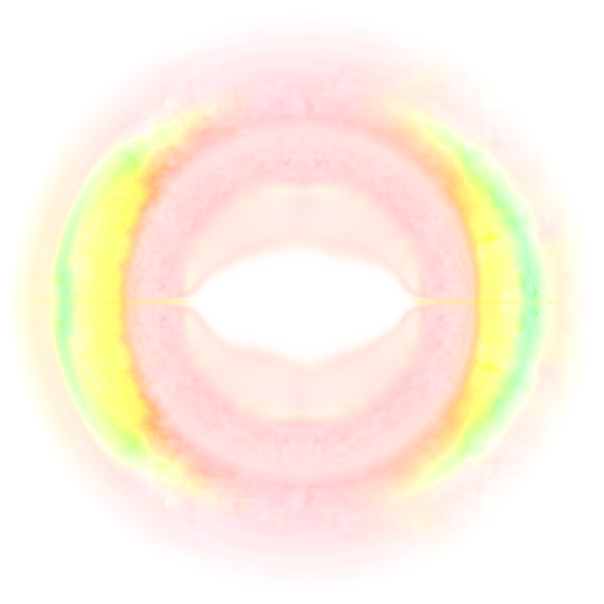
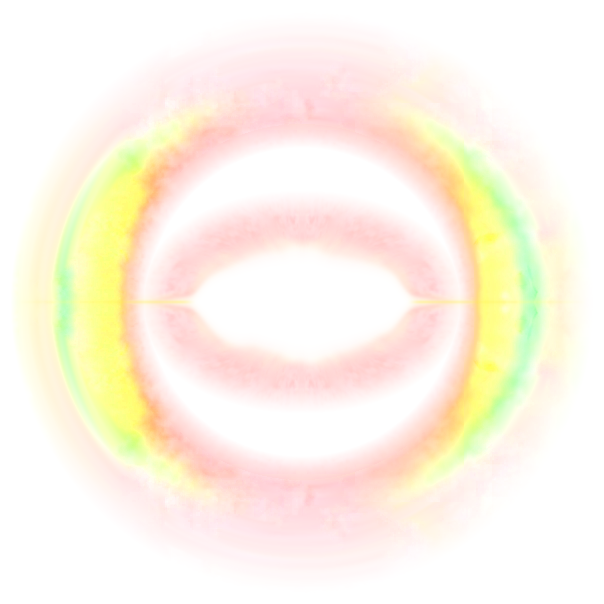
Efekt 10: kare 3 (ikinci katman merceğin etrafında aynı kalınlıkta) ve kare 4 taslağı (yuvarlak beyaz, paranteze kadar sarı, buharlar)
Claude-Session: https://claude.ai/code/session_01E9c1WiJsMc9gXSJZ9D4z6g

diff --git a/arayuz/araclar/efekt10/kare_04.py b/arayuz/araclar/efekt10/kare_04.py
@@ -1,0 +1,49 @@
+#!/usr/bin/env python3
+"""Efekt 10 — kare 4 (kullanici fotografi): ortada yuvarlak titanyum beyaz (~100x84 px); onun etrafi PARANTEZE KADAR beyazdan sariya
+donmus isik (mercek bicimli parlak cekirdek ~230x124, uclari yanlara bant olarak uzanir ~330); ikinci katman (seftali/somon) yok,
+yalniz soluk buharlari (dalgali, parcali) kalir. Parantezler ve dis sis kare_01'deki gibi.
+Cikti: kareler/kare_04.png (+ _siyah/_beyaz), onizlemeler/efekt10_kareler.png (1-4 yan yana)"""
+import os, numpy as np
+from PIL import Image
+from scipy import ndimage
+B_=os.path.dirname(os.path.abspath(__file__)); K=os.path.join(B_,"..","..","kaynak","efekt10","kareler"); ONZ=os.path.join(B_,"..","..","onizlemeler")
+BEYAZ_RX,BEYAZ_RY=50.0,42.0; MER_X,MER_Y,BANT_Y,BANT_X=115.0,62.0,10.0,168.0
+SARI=np.array([0xF8,0xE9,0x5A],np.float32)/255; ACIK=np.array([0xFF,0xF8,0xC8],np.float32)/255
+a=np.asarray(Image.open(os.path.join(K,"kare_01.png")).convert("RGBA")).astype(np.float32)/255
+L0=a[...,:3]*a[...,3:4]; H,W=L0.shape[:2]; cy,cx=(H-1)/2,(W-1)/2
+yy,xx=np.mgrid[0:H,0:W].astype(np.float32); dx,dy=xx-cx,yy-cy; R=np.hypot(dx,dy); ax=np.abs(dx)
+def gur(sc,seed):
+    z=np.random.default_rng(seed).standard_normal((H//sc+3,W//sc+3)).astype(np.float32)
+    z=ndimage.zoom(ndimage.gaussian_filter(z,1.0),sc,order=3)[:H,:W]; return z/(z.std()+1e-6)
+sariyesil=np.clip((L0[...,1]-0.80*L0[...,0])/0.12+0.5,0,1)*np.clip((R-165)/10,0,1)
+ic=np.clip((186-R)/14,0,1)*(1-sariyesil)                         # parantezin ici
+# taban: kare_01, parantez ici bosaltilir
+T=L0*(1-ic)[...,None]
+# sari isik: parantezin icini dolduran, merkeze dogru beyazlasan sari (merceğin icinde daha parlak)
+gov=MER_Y*np.sqrt(np.clip(1-(ax/MER_X)**2,0,1))
+bant=BANT_Y*np.clip(1-np.clip((ax-MER_X*0.6)/(BANT_X-MER_X*0.6),0,1),0,1)**0.7*(ax<BANT_X)
+h=ndimage.gaussian_filter1d(np.maximum(gov,np.maximum(bant,0.01)),6,axis=1)
+sm=np.abs(dy)/np.maximum(h,0.5)*(1+0.05*gur(12,9))               # mercek: 1 = kenar
+mer=np.clip((1.5-sm)/0.9,0,1); mer=mer*mer*(3-2*mer)
+genel=np.clip((196-R)/34,0,1); genel=genel*genel*(3-2*genel)*(1-sariyesil)     # paranteze kadar sari, yumusak sinir
+sar_op=np.clip(genel*(0.86+0.12*np.clip(1-R/190,0,1))+0.5*mer,0,1)
+renk=SARI[None,None,:]*(1-mer[...,None])+ACIK[None,None,:]*mer[...,None]
+T=T*(1-sar_op[...,None])+renk*sar_op[...,None]
+# buharlar: ikinci katmanin soluk, dalgali parcalari — sarinin uzerinde ekran karisimiyla (yalniz pembe ton ekler)
+buh=np.clip(0.4+0.7*ndimage.gaussian_filter(gur(16,7),2),0,1)**2*np.clip((R-75)/30,0,1)*np.clip((185-R)/30,0,1)*(1-mer)
+pembe=L0*np.array([1.0,0.62,0.60],np.float32)
+T=1-(1-T)*(1-np.clip(pembe*(buh*0.45)[...,None],0,1))
+# titanyum beyaz yuvarlak cekirdek (hafif duzensiz, yumusak kenar)
+eb=np.hypot(dx/BEYAZ_RX,dy/BEYAZ_RY)*(1+0.04*gur(10,10))
+wb=np.clip((1.18-eb)/0.30,0,1); wb=wb*wb*(3-2*wb)
+T=T*(1-wb[...,None])+np.ones(3,np.float32)*wb[...,None]
+T=np.clip(T,0,1); al=T.max(2); rgb=np.where(al[...,None]>1e-4,T/np.maximum(al,1e-4)[...,None],0)
+Image.fromarray(np.dstack([(rgb*255).round(),(al*255).round()]).astype(np.uint8)).save(os.path.join(K,"kare_04.png"))
+im=Image.open(os.path.join(K,"kare_04.png"))
+for ad,zr in (("siyah",(0,0,0,255)),("beyaz",(255,255,255,255))):
+    z=Image.new("RGBA",im.size,zr); z.alpha_composite(im); z.convert("RGB").save(os.path.join(K,"kare_04_%s.png"%ad))
+o=Image.new("RGB",(W*4+60,H*2+20),(20,20,24))
+for j,k in enumerate(("01","02","03","04")):
+    for i,ad in enumerate(("beyaz","siyah")):
+        o.paste(Image.open(os.path.join(K,"kare_%s_%s.png"%(k,ad))),(j*(W+20),i*(H+20)))
+o.save(os.path.join(ONZ,"efekt10_kareler.png")); print("tamam")

diff --git a/arayuz/araclar/efekt10/kare_03.py b/arayuz/araclar/efekt10/kare_03.py
@@ -12,15 +12,10 @@ IKINCI_KAT=0.50; CIZGI_OPAK=0.50; SARI=np.array([0xF7,0xE6,0x45],np.float32)/255
 a=np.asarray(Image.open(os.path.join(K,"kare_01.png")).convert("RGBA")).astype(np.float32)/255
 L=a[...,:3]*a[...,3:4]; H,W=L.shape[:2]; cy,cx=(H-1)/2,(W-1)/2
 yy,xx=np.mgrid[0:H,0:W].astype(np.float32); dx,dy=xx-cx,yy-cy; R=np.hypot(dx,dy); ax=np.abs(dx)
-# 1) ikinci katman %50: kare_01'de beyazin disindaki seftali/somon halka (r 72-172) yarim, yumusak sinirli; parantez (sari-yesil) korunur
+# 1) parantez disinda ic bolge bosaltilir (ikinci katman asagida mercegin etrafina sarilacak)
 mx=np.maximum(L.max(2),1e-3); sariyesil=np.clip((L[...,1]-0.80*L[...,0])/0.12+0.5,0,1)*np.clip((R-165)/10,0,1)
-# eski beyaz cekirdek kalkar: r<100 icin ayni aci yonunde r=100+ (seftali/somon) renkleri iceri dogru uzatilir
-th0=np.arctan2(dy,dx); rs=np.where(R<100,100+(100-R)*0.25,R)
-Lic=np.stack([ndimage.map_coordinates(L[...,c],[cy+rs*np.sin(th0),cx+rs*np.cos(th0)],order=1) for c in range(3)],-1)
-Lic=np.stack([ndimage.gaussian_filter(Lic[...,c],7) for c in range(3)],-1)   # merkeze dogru isinsal cizgi olusmasin
-wic=np.clip((104-R)/8,0,1)[...,None]; L=L*(1-wic)+Lic*wic
-bolge=np.clip((185-R)/14,0,1)*(1-sariyesil)
-L=L*(1-bolge*(1-IKINCI_KAT))[...,None]
+bos=np.clip((184-R)/30,0,1)*(1-sariyesil)
+L=L*(1-bos)[...,None]
 # 2) mercek bicimli titanyum beyaz: yari yukseklik profili h(x) -> govde (elips) + uca dogru incelen bant
 govde=GOVDE_Y*np.sqrt(np.clip(1-(ax/GOVDE_X)**2,0,1))
 bant=BANT_Y*np.clip(1-np.clip((ax-GOVDE_X*0.6)/(BANT_X-GOVDE_X*0.6),0,1),0,1)**0.7*(ax<BANT_X)
@@ -36,6 +31,15 @@ a0=np.asarray(Image.open(os.path.join(K,"kare_01.png")).convert("RGBA")).astype(
 rr=np.clip(76*s_,0,cx-1); G=np.stack([ndimage.map_coordinates(L0[...,c],[np.full_like(rr,cy),cx+rr],order=1) for c in range(3)],-1)
 w=np.clip((1.45-s_)/0.75,0,1); w=w*w*(3-2*w); w=ndimage.gaussian_filter(w*(ax<BANT_X+25),4.0)[...,None]
 G=np.stack([ndimage.gaussian_filter(G[...,c],2.0) for c in range(3)],-1)
+# ikinci katman: kare_01'deki seftali/somon halka (beyaz kenari r~78'den r~172'ye, ~95 px) AYNI KALINLIKTA mercegin etrafina sarilir, %50
+mask=np.hypot(dx/GOVDE_X,dy/GOVDE_Y)<1.0           # yalniz mercek govdesi (bant haric)
+d=ndimage.distance_transform_edt(~mask)
+KAL=48.0                                            # ikinci katman kalinligi (her yerde ayni)
+req=112.0+d*(48.0/KAL)
+th1=np.arctan2(dy,dx)
+Hk=np.stack([ndimage.map_coordinates(L0[...,c],[cy+req*np.sin(th1),cx+req*np.cos(th1)],order=1) for c in range(3)],-1)
+wk=np.clip((KAL+10-d)/26,0,1)*np.clip((d+6)/6,0,1)*(1-sariyesil)*np.clip((186-R)/10,0,1)
+L=np.maximum(L,Hk*(wk*IKINCI_KAT)[...,None])
 T=L*(1-w)+np.maximum(L,G)*w
 # 3) sari cizgi %50 (beyazin icinde gorunmez)
 beyaz=ndimage.gaussian_filter(np.clip((T.min(2)-0.80)/0.15,0,1),2.0)
